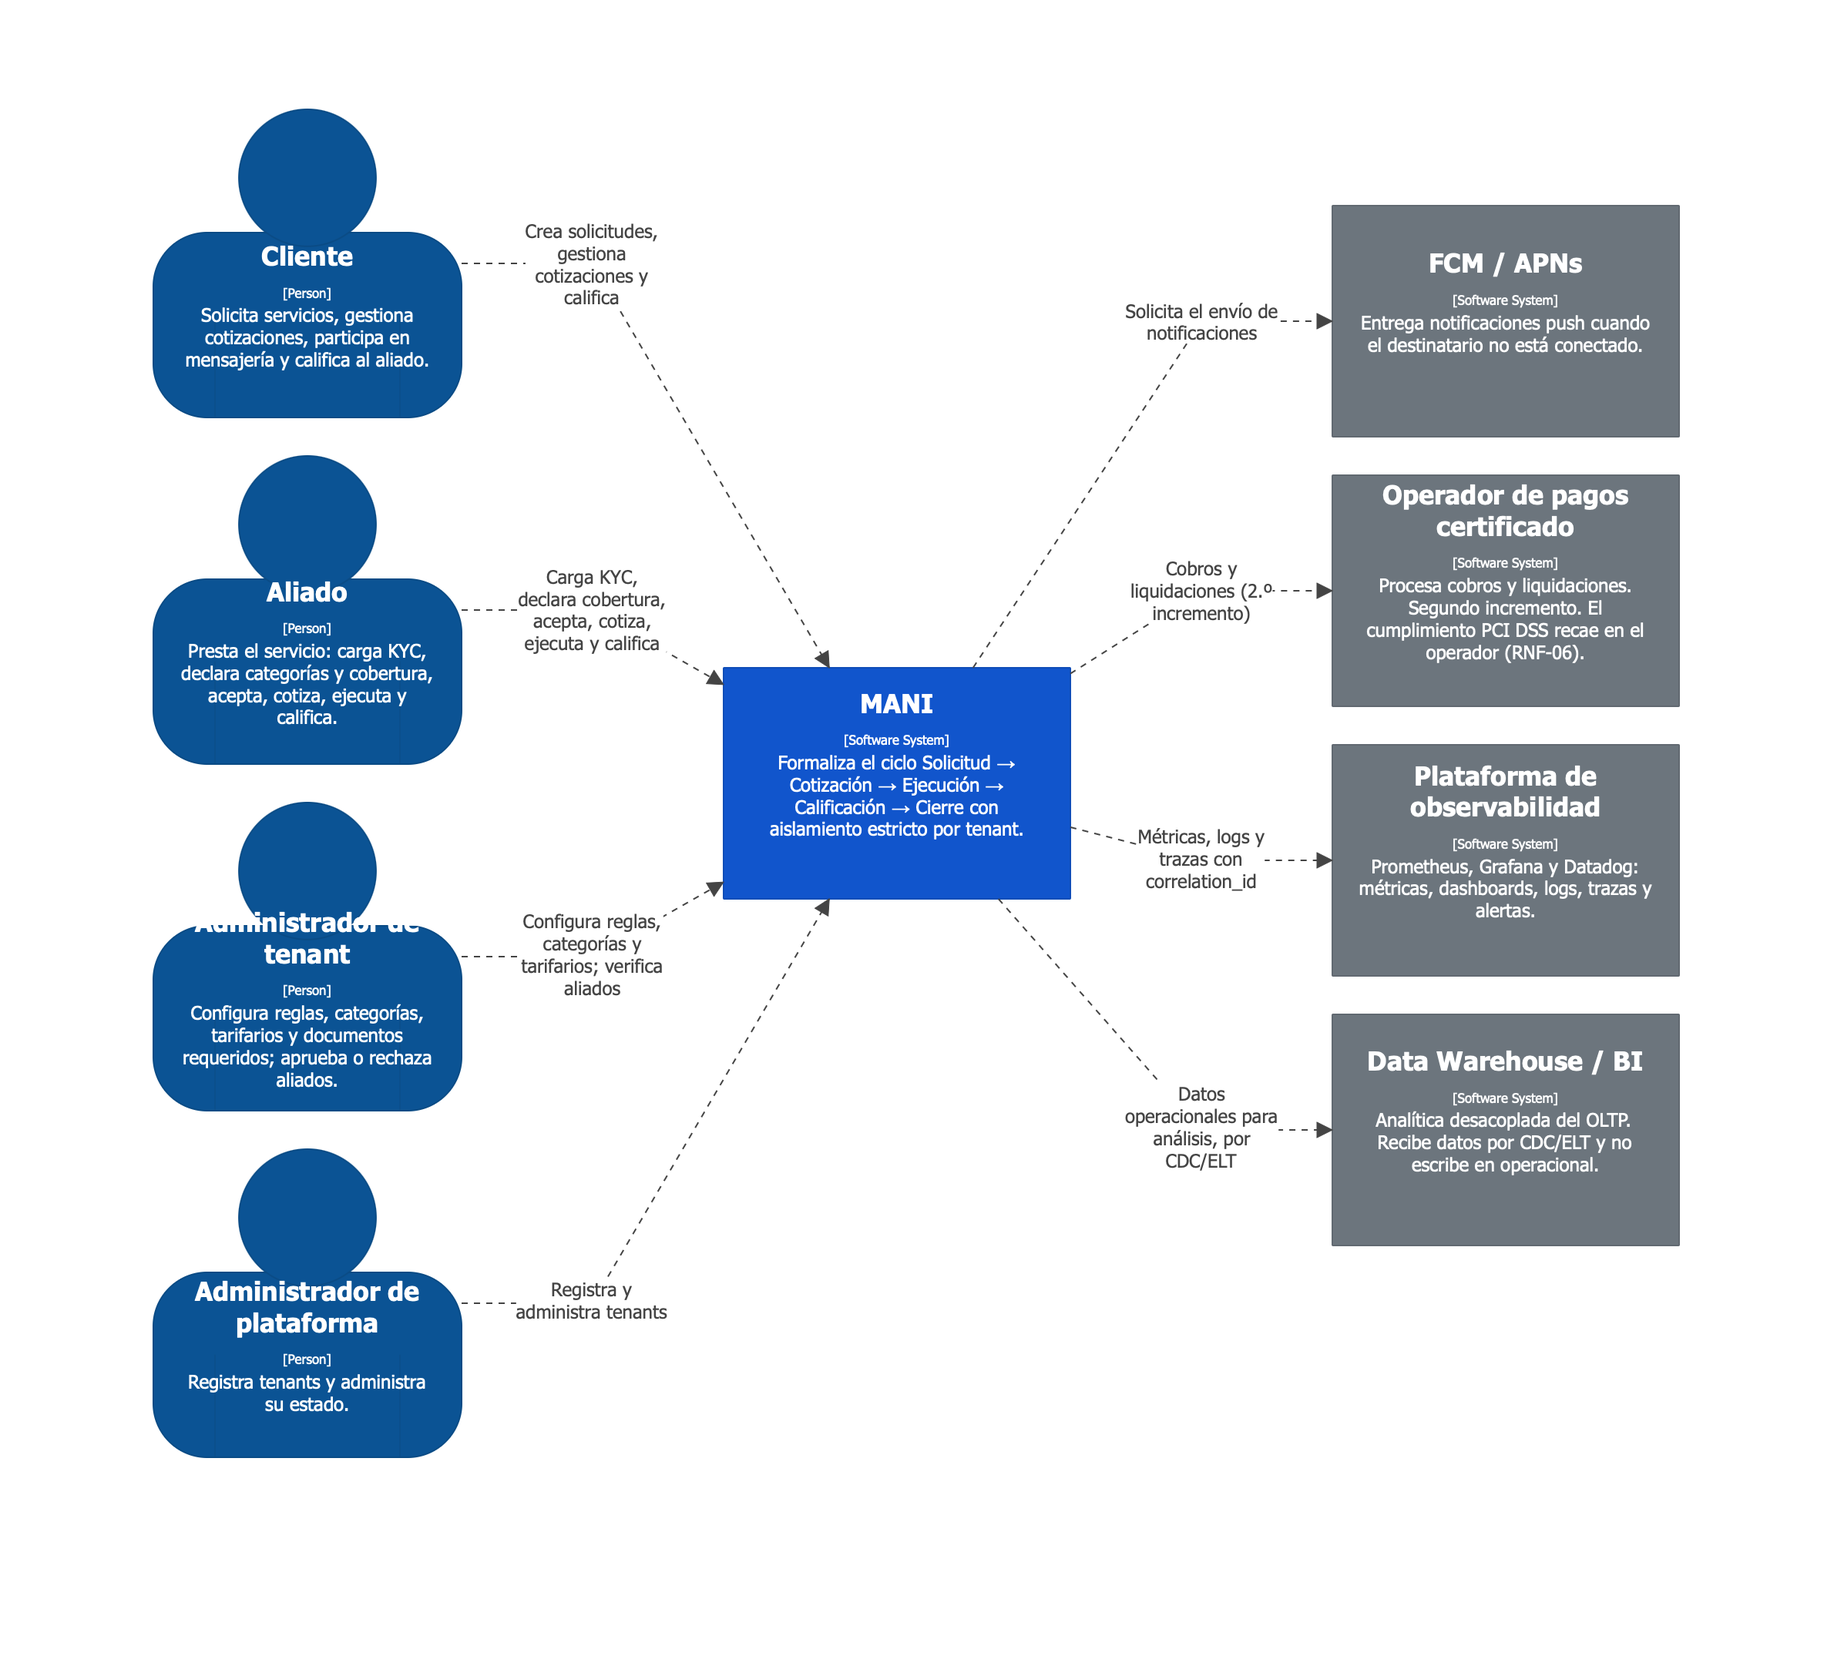
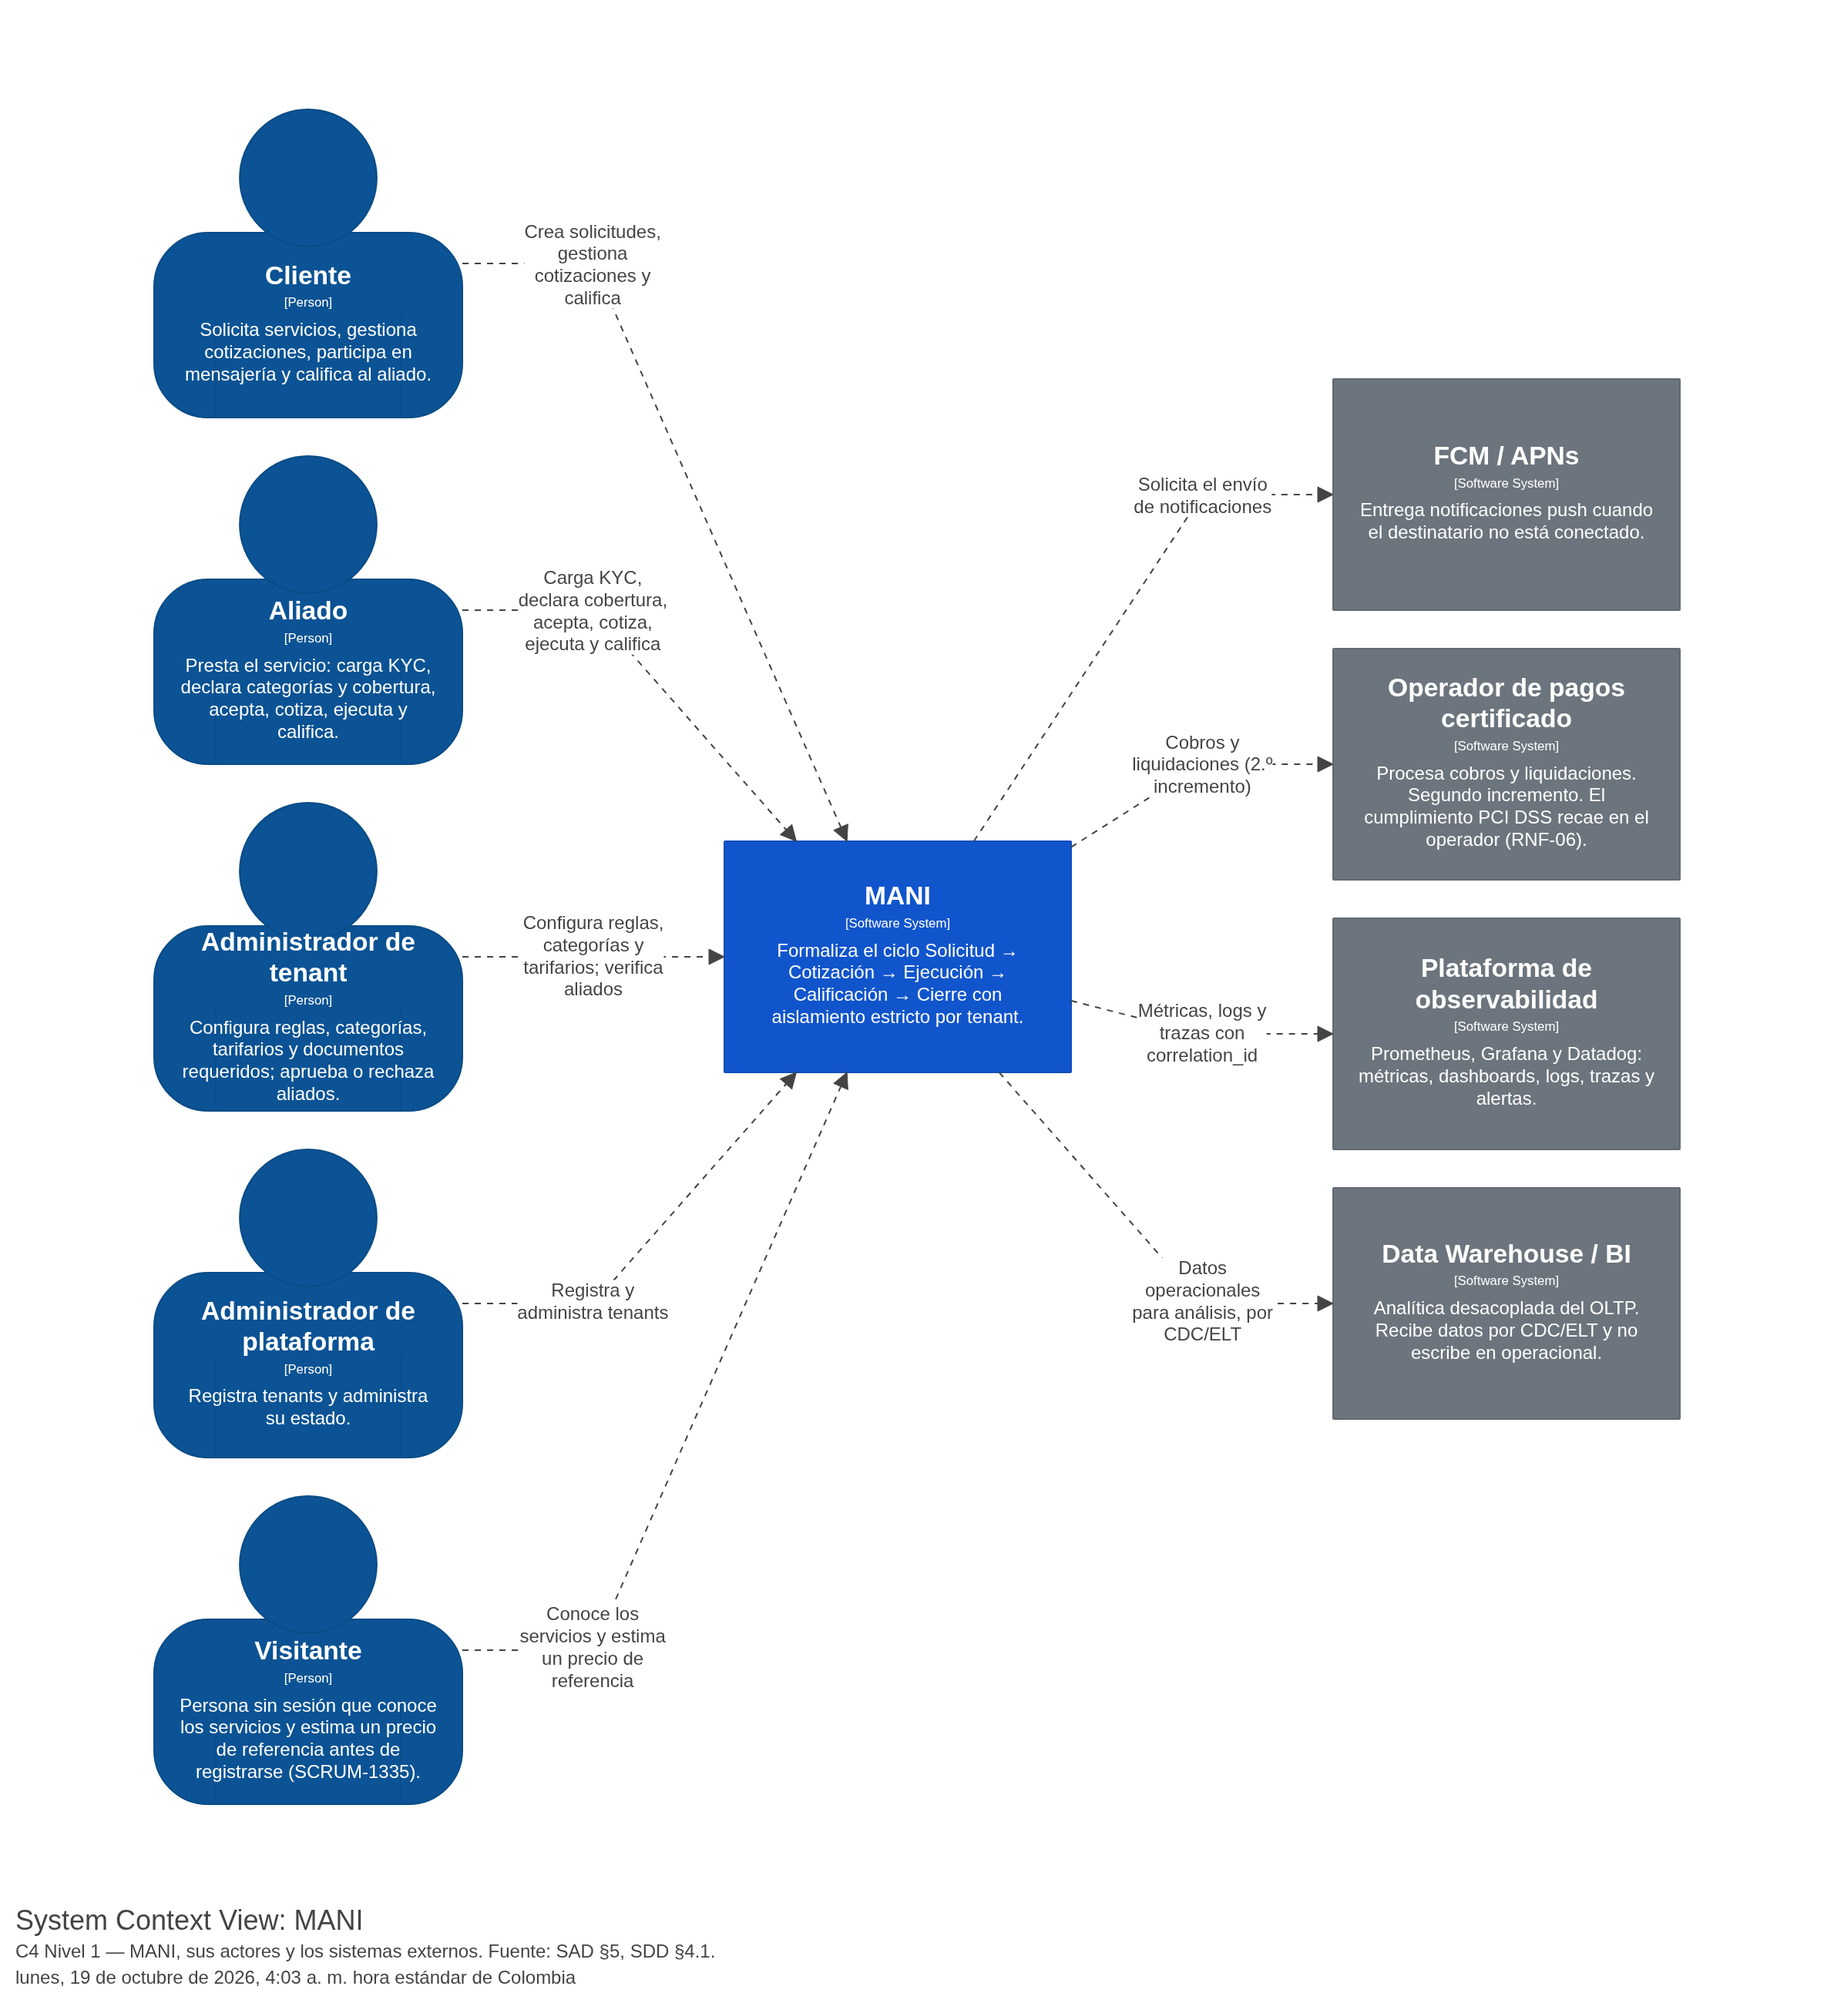
[SCRUM-1348] C4: agrega la landing y el visitante a workspace.dsl y regenera las vistas afectadas
DOC-LAND-05 de SCRUM-1343. Modelo: persona Visitante (sin sesion) y contenedor Landing comercial (React 19 + Vite 8, servida por NGINX) en el grupo Cliente y entrada, con dos relaciones: el visitante la usa y la landing redirige el navegador a /login del cliente web. No hay relacion con el Gateway, los servicios ni Supabase porque no existe. La landing queda fuera de la vista de despliegue, que describe la topologia objetivo de Kubernetes: hoy corre como contenedor Docker por host, y la cabecera del archivo deja escrito el motivo.

Vistas (ADR-0008, se edita la fuente y se exporta): panorama, contexto y contenedores, las unicas que incluyen los elementos nuevos. Se regeneraron desde este mismo workspace.dsl con structurizr/structurizr local y exportCurrentDiagramToPNG, en modo claro como las anteriores. diagrams/README.md lo registra y aclara que las demas exportaciones siguen desactualizadas.

Verificacion: el servidor de Structurizr cargo el DSL sin errores y listo las 12 vistas; se revisaron las tres imagenes. El texto de algunos contenedores (Core, Dispatch, API Gateway) desborda la caja y oculta su nombre; ya pasaba en la exportacion anterior y no se cambia aqui.

diff --git a/diagrams/README.md b/diagrams/README.md
@@ -32,7 +32,9 @@ ADR-0008 exige conservar una fuente versionable además de la exportación usada
 
 El DSL manda: un diagrama C4 no se edita en la imagen, se cambia en el modelo y se vuelve a exportar.
 
-> ⚠ Las exportaciones PNG de las vistas C4 están desactualizadas respecto al `workspace.dsl` vigente. Mientras no se regeneren, manda el DSL y manda el texto del SDD. Ver SDD §4.0.
+> ⚠ Las exportaciones PNG de las vistas C4 están desactualizadas respecto al `workspace.dsl` vigente, salvo `panorama`, `contexto` y `contenedores`, regeneradas desde el DSL el 2026-10-19 al agregar la landing (SCRUM-1348). Mientras no se regeneren las demás, manda el DSL y manda el texto del SDD. Ver SDD §4.0.
+>
+> Cómo se regeneraron, para repetirlo: `docker run -p 8080:8080 -v diagrams/c4:/usr/local/structurizr structurizr/structurizr local` (Structurizr Lite ya no se mantiene), y para cada vista `structurizr.scripting.exportCurrentDiagramToPNG({ includeMetadata: true, crop: false })` desde el navegador, en modo claro.
 
 ## Reubicaciones aplicadas (DOC-29 / SCRUM-1084)
 
